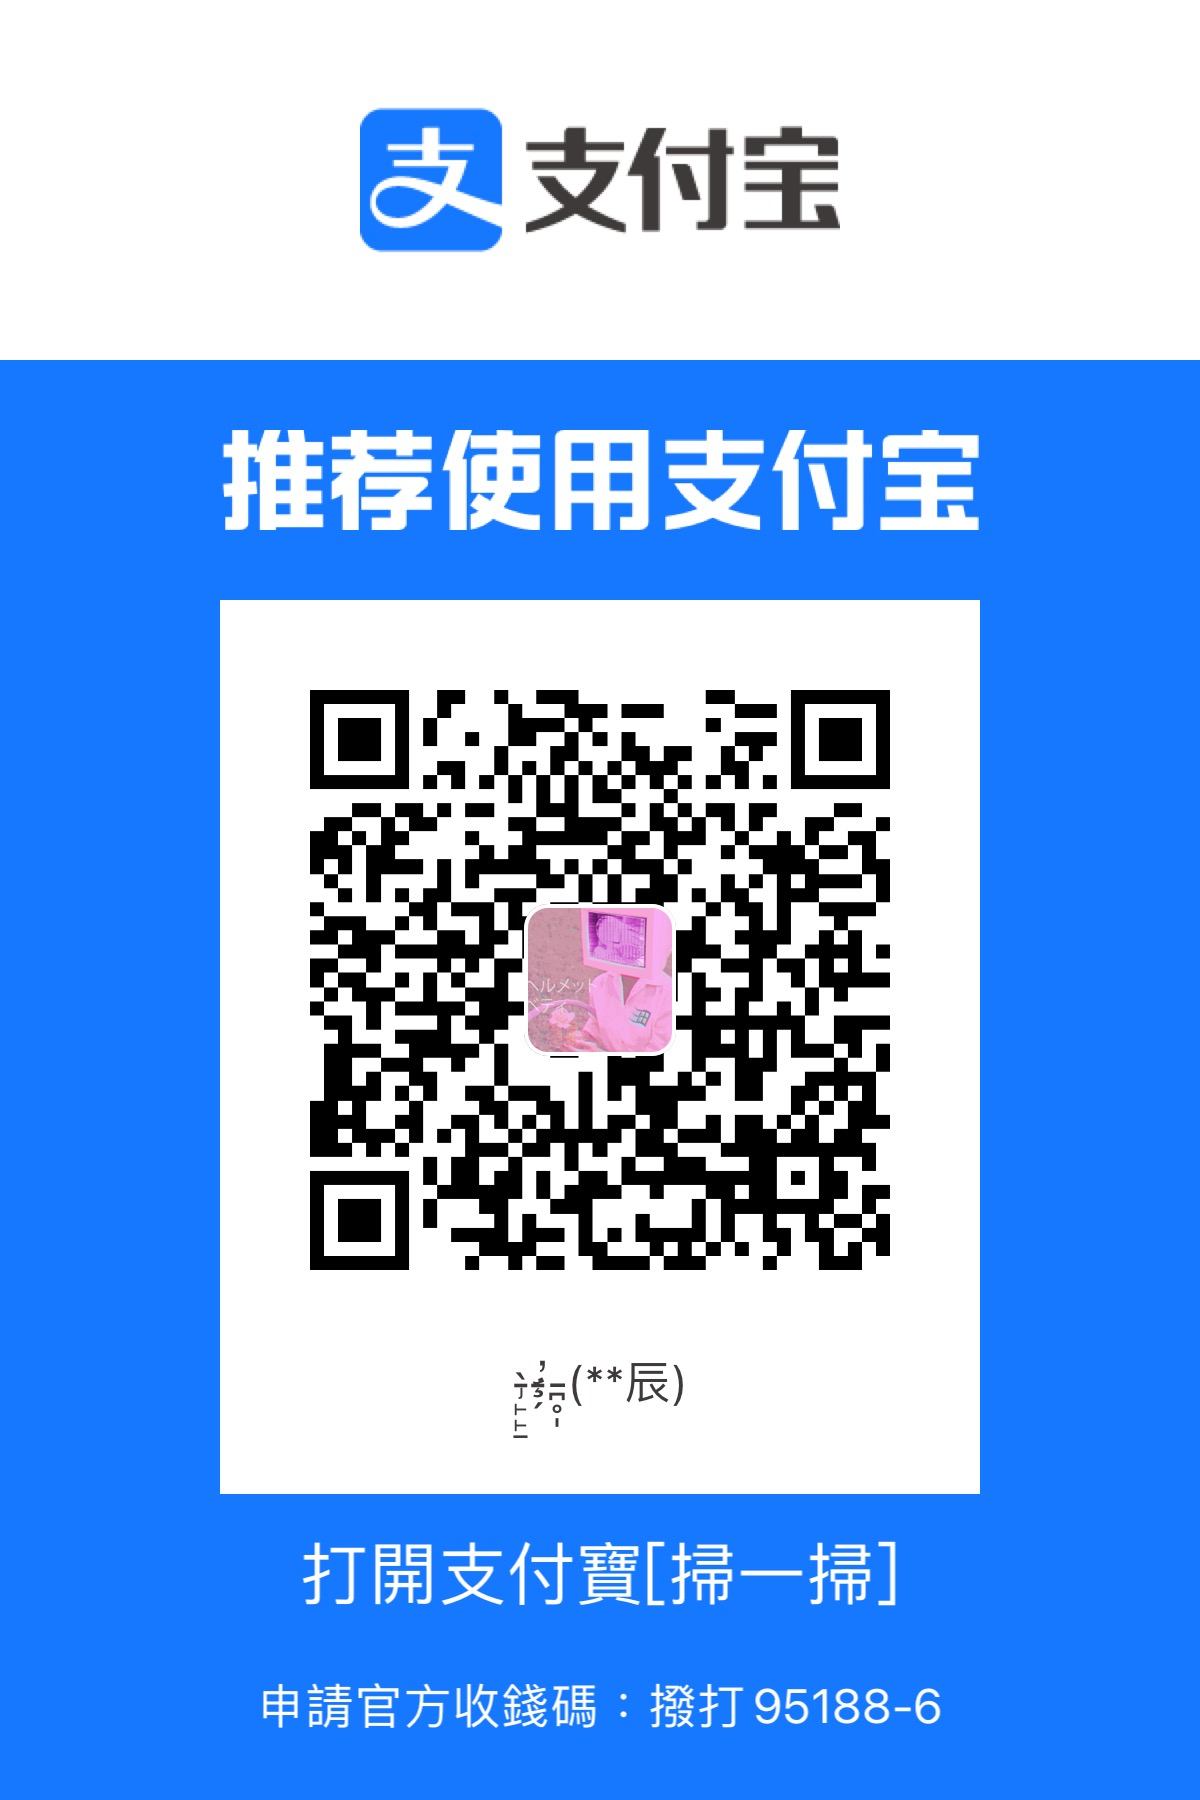
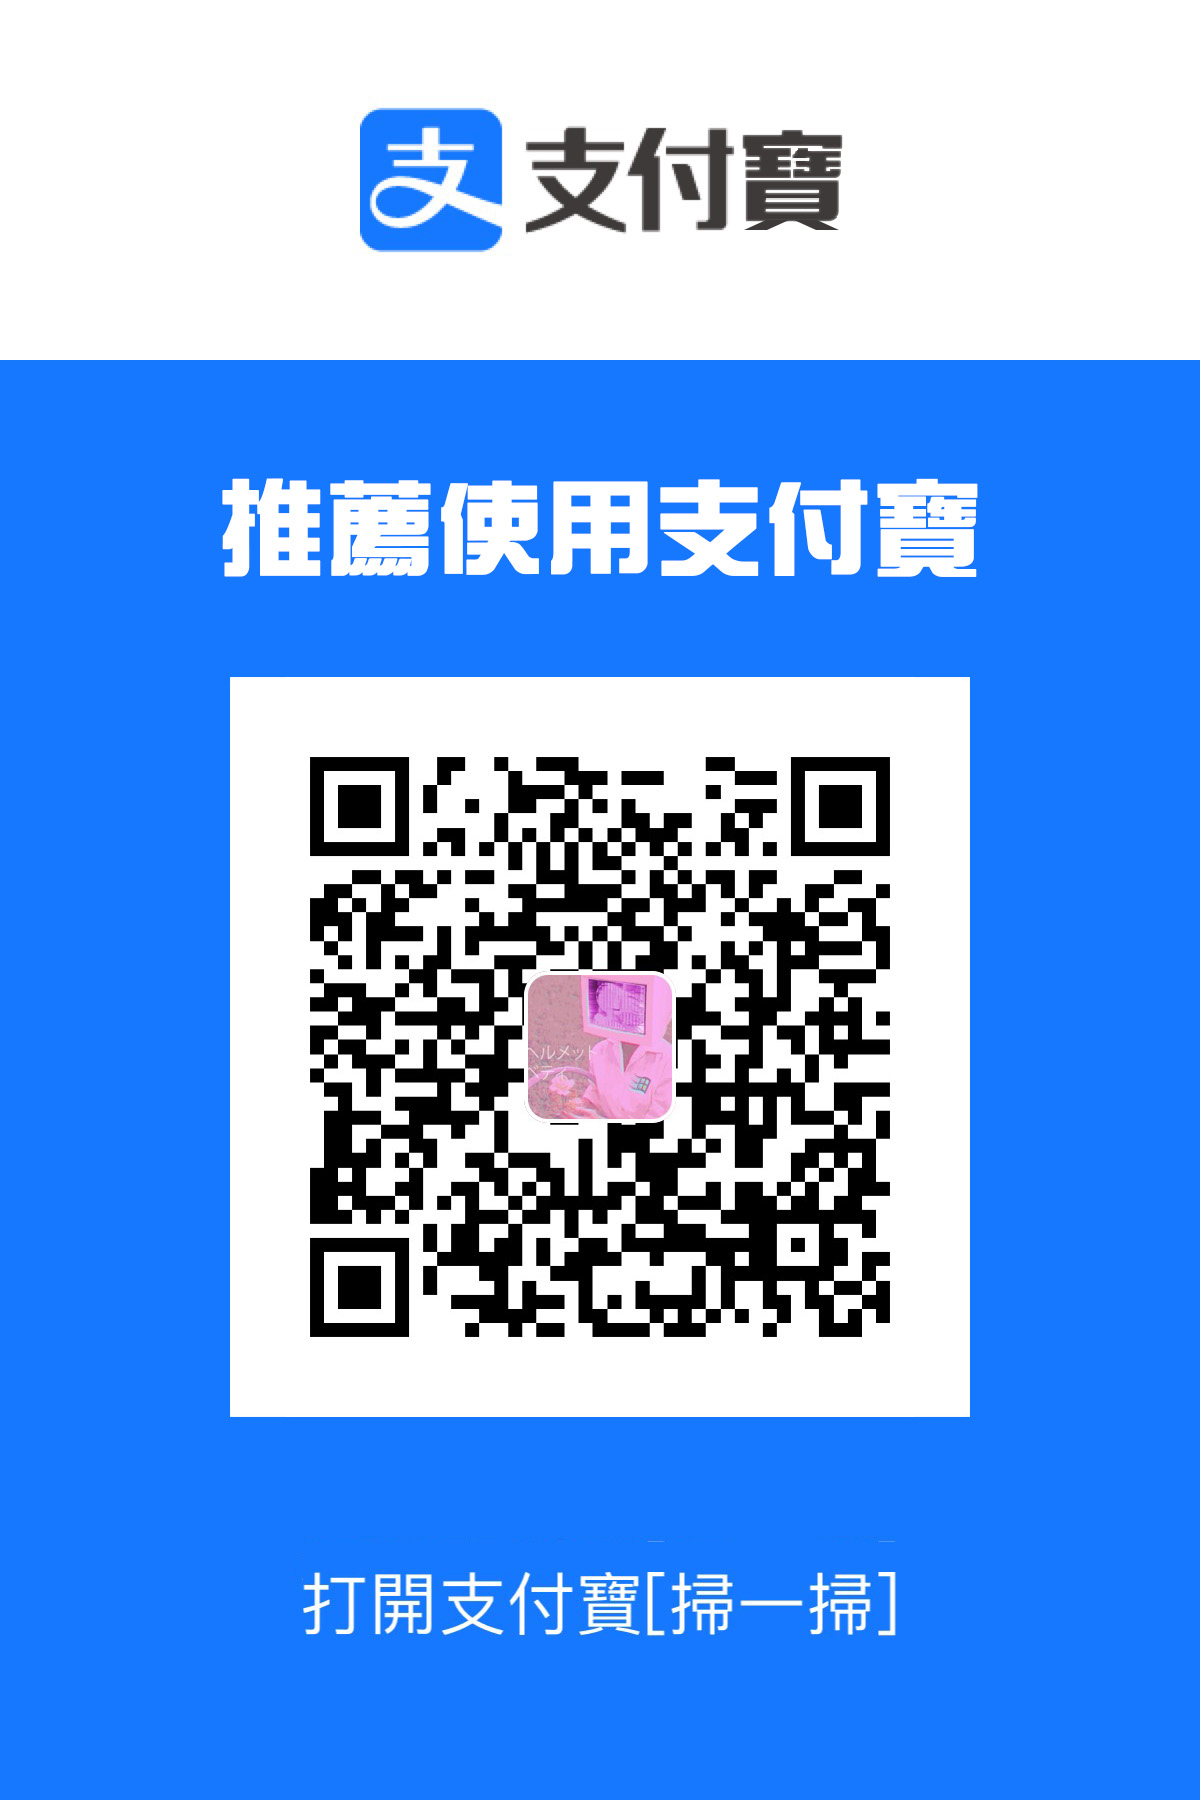
打賞我頁面完成

Changed region(s): [[0.185, 0.2178, 0.8325, 0.9644], [0.6167, 0.0622, 0.7092, 0.1244]]

diff --git a/css/打賞我.css b/css/打賞我.css
@@ -1,0 +1,187 @@
+@font-face {
+	font-display: swap;
+	font-family: '閹割unifont';
+	src: url('/fonts/閹割unifont-Medium.woff2') format('woff2');
+}
+
+@font-face {
+	font-display: swap;
+	font-family: '只需HanaMinA';
+	src: url('/fonts/只需HanaMinA.ttf') format('TrueType');
+}
+
+:lang(han-char) {
+	text-orientation: upright;
+}
+
+/**                                                                     **/
+/**                                  配置                                 **/
+/**                                                                     **/
+
+
+body *,
+body {
+	overflow-y: hidden;
+	font-family: '閹割unifont';
+}
+
+body {
+	margin: 0;
+	color: white;
+	background-size: cover;
+	writing-mode: horizontal-tb;
+	background-repeat: no-repeat;
+	background-attachment: fixed;
+	background-position: left top;
+	background: #d3e5cf;
+}
+
+#大容器 {
+	display: grid;
+	--大容器邊距: 15px;
+	padding: var(--大容器邊距);
+	grid-gap: var(--大容器邊距);
+	height: calc(100vh - var(--大容器邊距) * 2);
+	grid:
+		'二維碼   二維碼   二維碼   二維碼   二維碼   二維碼   二維碼   二維碼   二維碼   二維碼   二維碼   直書語言切換   直書語言切換'
+		'二維碼   二維碼   二維碼   二維碼   二維碼   二維碼   二維碼   二維碼   二維碼   二維碼   二維碼   直書介紹   直書介紹'
+		'二維碼   二維碼   二維碼   二維碼   二維碼   二維碼   二維碼   二維碼   二維碼   二維碼   二維碼   直書介紹   直書介紹'
+		'橫書介紹 橫書介紹 橫書介紹 橫書介紹 橫書介紹 橫書介紹 橫書介紹 橫書介紹 橫書介紹 橫書介紹 橫書介紹  直書介紹  直書介紹'
+		'橫書介紹 橫書介紹 橫書介紹 橫書介紹 橫書介紹 橫書介紹 橫書介紹 橫書介紹 橫書介紹 橫書介紹 橫書介紹  直書介紹  直書介紹'
+		'橫書介紹 橫書介紹 橫書介紹 橫書介紹 橫書介紹 橫書介紹 橫書介紹 橫書介紹 橫書介紹 橫書介紹 橫書介紹  直書介紹  直書介紹'
+		'橫書介紹 橫書介紹 橫書介紹 橫書介紹 橫書介紹 橫書介紹 橫書介紹 橫書介紹 橫書介紹 橫書介紹 橫書介紹  直書介紹  直書介紹'
+		'橫書介紹 橫書介紹 橫書介紹 橫書介紹 橫書介紹 橫書介紹 橫書介紹 橫書介紹 橫書介紹 橫書介紹 橫書介紹  直書介紹  直書介紹'
+		'橫書介紹 橫書介紹 橫書介紹 橫書介紹 橫書介紹 橫書介紹 橫書介紹 橫書介紹 橫書介紹 橫書介紹 橫書介紹  直書介紹  直書介紹'
+	;
+}
+
+#大容器>* {
+	font-size: 30px;
+	border-radius: 4px;
+	color: hsl(106, 21%, 40%);
+}
+
+#直書介紹 {
+	grid-area: 直書介紹;
+	background-color: rgb(255, 255, 255);
+	writing-mode: vertical-rl;
+	padding: var(--大容器邊距);
+}
+
+#橫書介紹,
+#橫書介紹 *,
+#直書介紹,
+#直書介紹 *:not(span) {
+	margin: 0;
+	overflow: hidden;
+}
+
+#橫書介紹>h1 {
+	padding-bottom: 10px;
+}
+
+#直書介紹>h1 {
+	padding-left: 10px;
+}
+
+#直書介紹 span.小 {
+	height: 0.7em;
+	overflow: visible;
+	display: inline-flex;
+	transform: translate(0.15em, -0.3em);
+}
+
+
+#橫書介紹::selection,
+#橫書介紹 *::selection,
+#直書介紹::selection,
+#直書介紹 *::selection {
+	color: #ffffff;
+	background-color: hsl(106, 21%, 60%);
+}
+
+#橫書介紹 h1,
+#直書介紹 h1 {
+	font-size: 40px;
+}
+
+#橫書介紹 p,
+#直書介紹 p {
+	white-space: pre-wrap;
+}
+
+#橫書介紹 {
+	grid-area: 橫書介紹;
+	background-color: rgb(255, 255, 255);
+	padding: var(--大容器邊距);
+}
+
+#二維碼 {
+	grid-area: 二維碼;
+	display: flex;
+	align-items: center;
+	justify-content: center;
+	overflow: hidden;
+}
+
+#二維碼>a {
+	width: auto;
+	height: 80%;
+	margin: 0 5%;
+	display: flex;
+	overflow: hidden;
+	user-select: none;
+	border-radius: 4px;
+	object-fit: contain;
+	align-items: center;
+	justify-content: center;
+	transition: 0.3s cubic-bezier(0.075, 0.82, 0.165, 1);
+}
+
+#二維碼>a>img {
+	max-width: 100%;
+	max-height: 100%;
+	overflow: hidden;
+	user-select: none;
+	border-radius: 4px;
+	transition: 0.3s cubic-bezier(0.075, 0.82, 0.165, 1);
+}
+
+#二維碼>a:hover,
+#二維碼>a>img:hover {
+	border-radius: 13px;
+	transform: scale(1.03);
+}
+
+#二維碼>a:active,
+#二維碼>a>img:active {
+	transform: scale(0.97);
+}
+
+#直書語言切換 {
+	padding: 0;
+	border: none;
+	display: flex;
+	cursor: pointer;
+	font-size: 30px;
+	color: #d3e5cf;
+	user-select: none;
+	text-align: center;
+	align-items: center;
+	grid-area: 直書語言切換;
+	justify-content: center;
+	background-color: hsl(106, 21%, 40%);
+	transition: 0.3s cubic-bezier(0.075, 0.82, 0.165, 1);
+	height: 2em;
+}
+
+#直書語言切換:hover {
+	font-size: 35px;
+	color: hsl(106, 21%, 20%);
+	background-color: hsl(106, 21%, 60%);
+}
+
+#直書語言切換:active {
+	font-size: 30px;
+	background-color: hsl(106, 21%, 50%);
+}

diff --git a/javascript/打賞我/打賞我.js b/javascript/打賞我/打賞我.js
@@ -1,0 +1,108 @@
+var 當前語言 = "漢文";
+
+const 語言配置 = {
+    漢文: {
+        語言: "語言",
+        打賞我: "打賞我！",
+        標題: "請給我打賞",
+        解釋: "无緣由地給我打賞，我就可以賣點零食",
+    },
+    汉文: {
+        語言: "语言",
+        打賞我: "打赏我！",
+        標題: "请给我打赏",
+        解釋: "无缘由地给我打赏，我就可以卖点零食",
+    },
+    日本文: {
+        語言: "言語",
+        打賞我: "チップをお願い！",
+        標題: `チ<span class="小">ッ</span>プをお願いね`,
+        解釋: `理由なしにチ<span class="小">ッ</span>プをくれたら、お菓子を買えます`,
+    },
+    國漢文混用: {
+        語言: "언어",
+        打賞我: "저에게 tip 주세요！",
+        標題: "팁　좀　주시겠어요？",
+        解釋: `<ruby>理由<rt>리유</rt></ruby>　없이　나에게　팁을　주면，\n<ruby>間食<rt>간식</rt></ruby>을　살　수　있어요`,
+    },
+    "🎨🪧": {
+        語言: "🗣",
+        標題: "🥺👐💵",
+        打賞我: "🥺👐💵",
+        解釋: "🥺，🧐❌，👐💵😊⭕，🍨😍",
+        meta: { 字體屬性: "SYSTEM" },
+    },
+};
+
+function 切換語言() {
+    const 語言配置Keys = Object.keys(語言配置);
+    const 當前語言Index = 語言配置Keys.indexOf(當前語言);
+    if (語言配置[當前語言] && 語言配置Keys[當前語言Index + 1]) {
+        當前語言 = 語言配置Keys[當前語言Index + 1];
+    } else {
+        當前語言 = "漢文";
+    }
+    刷新直書介紹(當前語言, 語言配置);
+}
+
+function 刷新直書介紹(當前語言, 語言配置) {
+    const 直書介紹 = document.getElementById("直書介紹");
+    const 直書語言切換 = document.getElementById("直書語言切換");
+    const 採用 = 語言配置[當前語言];
+    if (採用) {
+        var 示 = `<h1>${採用.標題}</h1>` + `<p>${採用.解釋}</p>`;
+        直書介紹.innerHTML = 示;
+        直書語言切換.innerText = 採用.語言;
+        document.title = 採用.打賞我;
+        if (採用.meta && 採用.meta.字體屬性) {
+            const 字體 = (() => {
+                switch (採用.meta.字體屬性) {
+                    case "SYSTEM":
+                        return "system-ui";
+                }
+            })();
+            直書介紹.style.fontFamily = 字體;
+            直書介紹.childNodes.forEach((node) => {
+                node.style.fontFamily = 字體;
+            });
+            直書語言切換.style.fontFamily = 字體;
+            直書語言切換.childNodes.forEach((node) => {
+                if (node.nodeType === 1) {
+                    node.style.fontFamily = 字體;
+                }
+            });
+        } else {
+            try {
+                直書介紹.style.removeProperty("font-family");
+                直書介紹.childNodes.forEach((node) => {
+                    node.style.removeProperty("font-family");
+                });
+                直書語言切換.style.removeProperty("font-family");
+                直書語言切換.childNodes.forEach((node) => {
+                    node.style.removeProperty("font-family");
+                });
+            } catch (error) {}
+        }
+    }
+}
+
+document.addEventListener("DOMContentLoaded", () => {
+    刷新直書介紹(當前語言, 語言配置);
+    console.log(
+        window.getComputedStyle(
+            document.querySelector("#二維碼>img"),
+            "::before"
+        )
+    );
+});
+
+const 二維碼 = {
+    微信支付: document.querySelector(`#二維碼 > img[二維碼="微信支付"]`),
+    支付寶: document.querySelector(`#二維碼 > img[二維碼="支付寶"]`),
+};
+
+function 打開鏈接(link) {
+    if (link) {
+        window.open(link, "_blank");
+    }
+}

diff --git a/打賞我.html b/打賞我.html
@@ -4,24 +4,35 @@
 <head>
 	<meta charset="UTF-8" />
 	<meta name="viewport" content="height=device-height, initial-scale=0.9" />
-	<title>聯繫我！</title>
+	<title>打賞我！</title>
 	<script src="/javascript/公共/好多函數！.js"></script>
-	<script src="/javascript/index/index.js"></script>
+	<script src="/javascript/打賞我/打賞我.js"></script>
 	<script src="/javascript/公共/私用字.js"></script>
 	<script src="/javascript/公共/豎排符號.js"></script>
 	<script src="/javascript/公共/絵文字.js"></script>
-	<link rel="icon" s-href="䈎面圖標：聯繫我" type="image/x-icon" />
+	<link rel="icon" s-href="䈎面圖標：打賞我" type="image/x-icon" />
 	<link rel="preload" href="/json/公共/私用字辭典.json" as="fetch" type="application/json" crossorigin="anonymous" />
 	<link rel="preload" href="/fonts/閹割unifont-Medium.woff2" as="font" type="font/woff2" crossorigin="anonymous" />
 	<link rel="preload" href="/fonts/只需HanaMinA.ttf" as="font" type="font/ttf" crossorigin="anonymous" />
 	<link href="/css/功能.css" rel="stylesheet" type="text/css" media="all" />
 	<link href="/css/滾動條/方滾動條.css" rel="stylesheet" type="text/css" media="all" />
-	<link href="/css/聯繫我.css" rel="stylesheet" type="text/css" media="all" />
+	<link href="/css/打賞我.css" rel="stylesheet" type="text/css" media="all" />
 </head>
 
 <body class="橫向捲動">
 	<div id='大容器'>
-		阿斯蒂芬
+		<button id="直書語言切換" ＜－＞="＜" onclick="切換語言();">語言</button>
+		<div id="直書介紹">直書介紹</div>
+		<div id="橫書介紹">
+			<h1>DONATE ME!</h1>
+			<p>Donate to me, just because.<br />So I can buy some snacks.</p>
+		</div>
+		<div id="二維碼">
+			<a href="https://qr.alipay.com/fkx12987hkvvamtzzj1pb3c">
+				<img src="/assets/圖象/收款碼/支付寶.jpg"></a>
+			<a href="wxp://f2f0E14lQ8-tXufcWZQYZo4GzHnMOFSIqwB99YJh8gyU-U8">
+				<img src="/assets/圖象/收款碼/微信支付.jpg"></a>
+		</div>
 	</div>
 </body>
 

diff --git a/javascript/公共/好多函數！.js b/javascript/公共/好多函數！.js
@@ -116,13 +116,15 @@ function 橫書文字方向應用器() {
             }
         });
 
-        if (
-            element.getAttribute("＜－＞") === "＜" &&
-            element.childNodes.length > 1
-        ) {
-            let combinedText = combineTextContent(element);
-            element.textContent = combinedText;
-        }
+        try {
+            if (
+                element.getAttribute("＜－＞") === "＜" &&
+                element.childNodes.length > 1
+            ) {
+                let combinedText = combineTextContent(element);
+                element.textContent = combinedText;
+            }
+        } catch (err) {}
     }
 
     function combineTextContent(element) {
